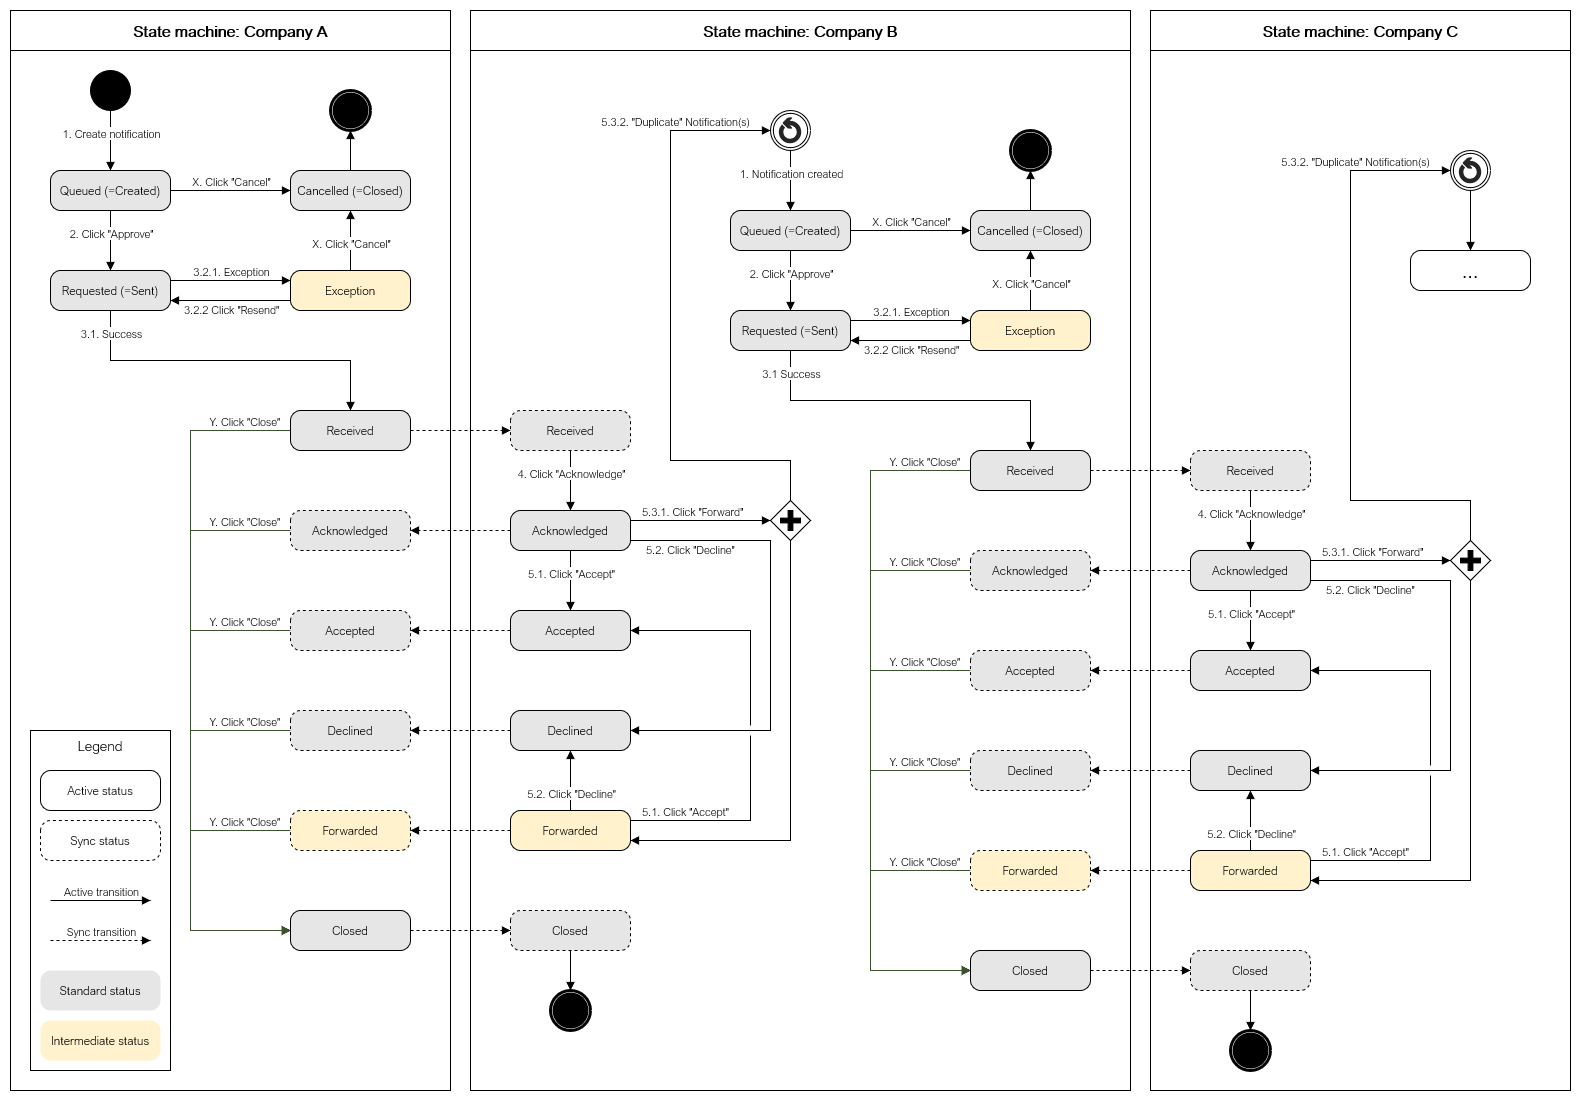
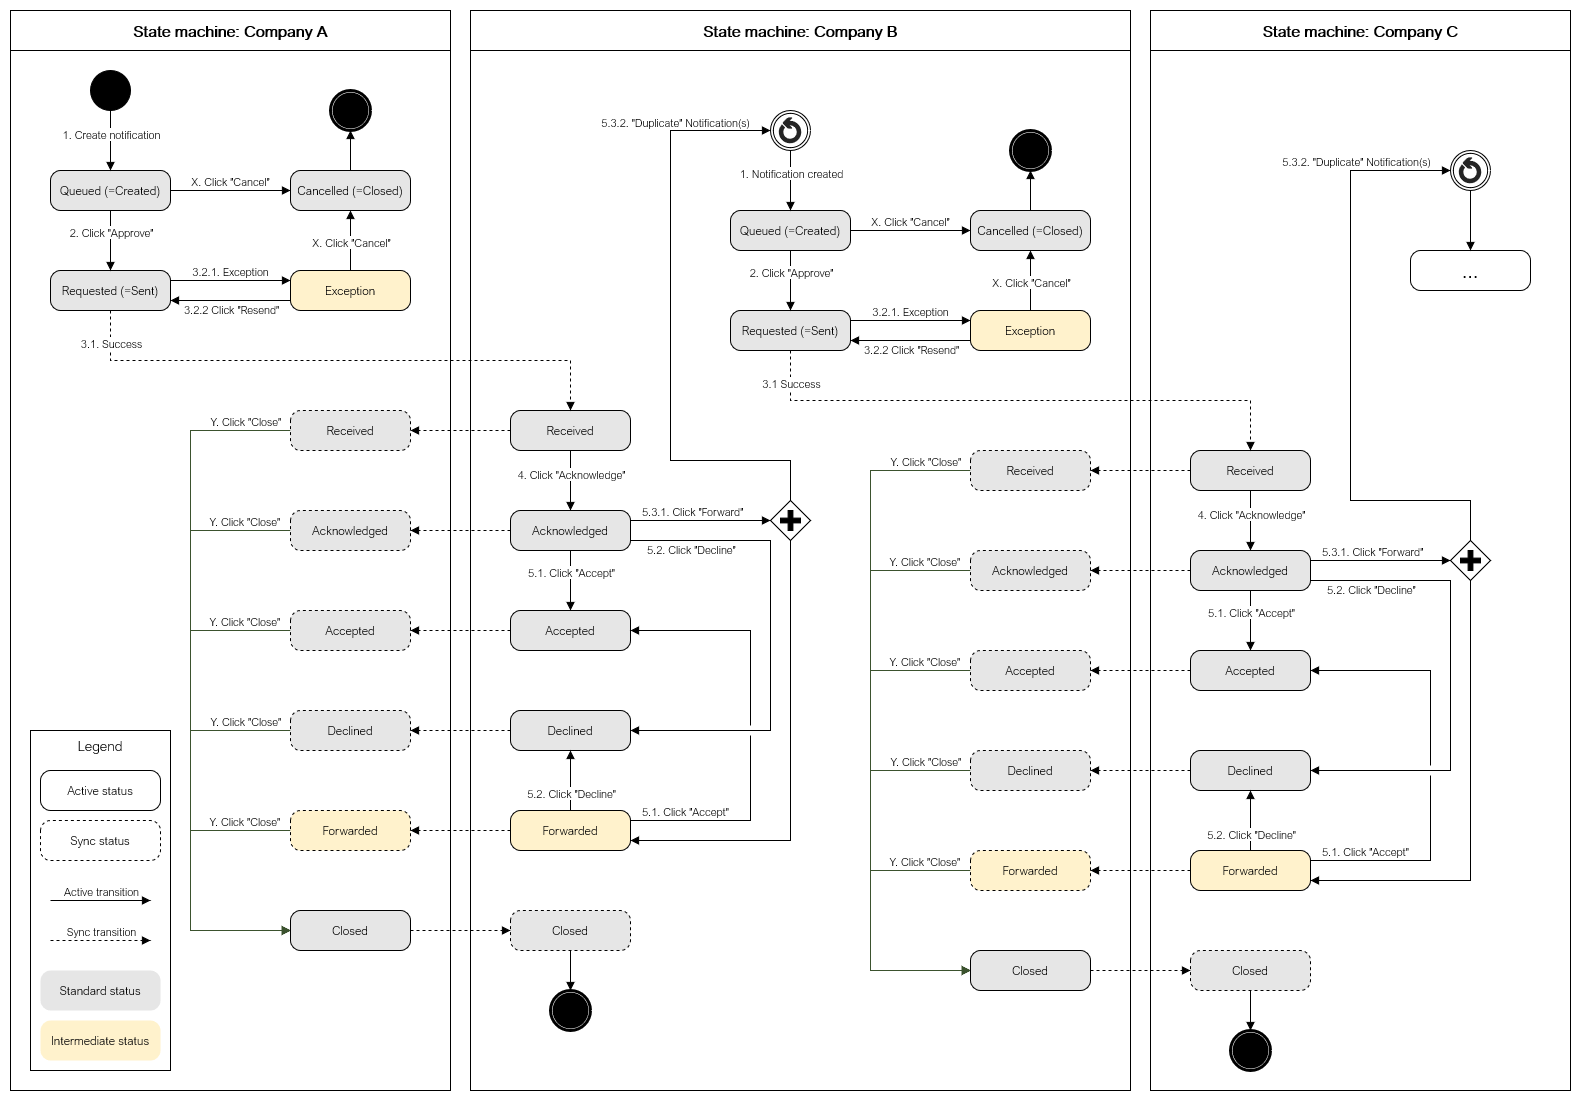
chore(concept): #436 update concept

diff --git a/docs/concept/#436-intermediate-status-handling/#436-intermediate-status-handling.md b/docs/concept/#436-intermediate-status-handling/#436-intermediate-status-handling.md
@@ -10,9 +10,10 @@
 # Table of Contents
 1. [Overview](#overview)
 2. [Requirements](#requirements)
-3. [Concept](#concept)
-4. [Glossary](#glossary)
-5. [References](#references)
+3. [Out of scope](#out-of-scope)
+4. [Concept](#concept)
+5. [Glossary](#glossary)
+6. [References](#references)
 
 # Overview
 The standard notification status flow must be used by all applications in the Catena-X network.
@@ -23,28 +24,39 @@ The frontend must be able to display more nuanced status information, while the 
 - [ ] Intermediate statuses for notifications can be stored in Trace-X without affecting the standard notification flow.
 - [ ] Intermediate statuses for notifications can be shown in Trace-X.
 - [ ] Status flow is implemented. The transitions between statuses work.
+- [ ] User manual is updated.
+
+# Out of scope
+"Forwarded" status is not yet confirmed. Concept will be adjusted depending on the decisions in https://github.com/eclipse-tractusx/sig-release/issues/385
 
 # Concept
 State machine:
 
-| Step  | Description                                                                                                                                                                                                                                                                                                                                                                                                            | Resulting status shown to the user | Resulting internal status | Transition                                                                                                               |
-|-------|------------------------------------------------------------------------------------------------------------------------------------------------------------------------------------------------------------------------------------------------------------------------------------------------------------------------------------------------------------------------------------------------------------------------|------------------------------------|---------------------------|--------------------------------------------------------------------------------------------------------------------------|
-| 1     | Notification is created. This can be done by the User manually or by forwarding an existing notification.                                                                                                                                                                                                                                                                                                              | Queued                             | Created                   | **Manually:** Sender created a new notification <br/>**or**<br/>**Automatically:** Notification is automatically created |
-| 2     | Notification is approved.                                                                                                                                                                                                                                                                                                                                                                                              | Requested                          | Sent                      | **Manually:** Sender approves notification                                                                               |
-| X     | Sending of notification is cancelled. The notification is **not** synchronized with the receiver. Can be done by the sender at any time before the notification was successfully synchronized with the receiver.                                                                                                                                                                                                       | Cancelled                          | Closed                    | **Manually:** Sender cancels the notification before it is successfully synchronized with the receiver                   |
-| 3.1   | Notification successfully sent. The notification is synchronized with the receiver.                                                                                                                                                                                                                                                                                                                                    | Received                           | Received                  | **Automatically:** After the notification is sent and Trace-X received a 201 success response                            |
-| 3.2.1 | There was an exception during the send process. The notification is **not** synchronized with the receiver.                                                                                                                                                                                                                                                                                                            | Exception                          | Received                  | **Automatically:** After the notification is sent and there was any exception                                            |
-| 3.2.2 | Notification is resent.                                                                                                                                                                                                                                                                                                                                                                                                | Requested                          | Sent                      | **Manually:** Sender resends notification                                                                                |
-| 4     | Notification is acknowledged. Status update will be sent to the sender.                                                                                                                                                                                                                                                                                                                                                | Acknowledged                       | Acknowledged              | **Manually:** Receiver acknowledges notification                                                                         |
-| 5.1   | Notification is accepted. Status update will be sent to the sender.                                                                                                                                                                                                                                                                                                                                                    | Accepted                           | Accepted                  | **Manually:** Receiver accepts notification                                                                              |
-| 5.2   | Notification is declined. Status update will be sent to the sender.                                                                                                                                                                                                                                                                                                                                                    | Declined                           | Declined                  | **Manually:** Receiver declines notification                                                                             |
-| 5.3.1 | Notification is forwarded. Status update will be sent to the sender. From this status the notification can be accepted or declined at any time.                                                                                                                                                                                                                                                                        | Forwarded                          | Acknowledged              | **Manually:** Receiver forwards notification                                                                             |
-| 5.3.2 | The notification is duplicated. The duplicate is forwarded to a new receiver. The forwarded notification will use the same state machine. The receiver becomes sender for the forwarded notification and there is a new receiver. One notification can be forwarded to multiple receivers. It can be forwarded further by any receiver. The forwarded notification(s) is/are independent of the original notification. | Forwarded                          | Acknowledged              | **Automatically:** After the notification was duplicated                                                                 |
-| Y     | Notification is closed. Status update will be sent to the receiver. The sender can close the notification at any time after the notification was synchronized with the receiver.                                                                                                                                                                                                                                       | Closed                             | Closed                    | **Manually:** Sender closes notification                                                                                 |
-
-
 ![Intermediate-status-handling.png](Intermediate-status-handling.png)
 
+| Step  | Description                                                                                                                                                                                                                                                                                                                                                                                                            | Resulting status shown to the user | Resulting internal status | Transition                                                                                                                     |
+|-------|------------------------------------------------------------------------------------------------------------------------------------------------------------------------------------------------------------------------------------------------------------------------------------------------------------------------------------------------------------------------------------------------------------------------|------------------------------------|---------------------------|--------------------------------------------------------------------------------------------------------------------------------|
+| 1     | Notification is created. This can be done by the User directly or by forwarding/duplicating an existing notification.                                                                                                                                                                                                                                                                                                  | Queued                             | Created                   | **Manually:** Sender created a new notification <br/><br/>or<br/><br/>**Automatically:** Notification is automatically created |
+| 2     | Notification is approved.                                                                                                                                                                                                                                                                                                                                                                                              | Requested                          | Sent                      | **Manually:** Sender approves notification                                                                                     |
+| X     | Sending of notification is cancelled. The notification is **not** synchronized with the receiver. Can be done by the sender at any time before the notification was successfully synchronized with the receiver.                                                                                                                                                                                                       | Cancelled                          | Closed                    | **Manually:** Sender cancels the notification before it is successfully synchronized with the receiver                         |
+| 3.1   | Notification successfully sent. The notification is synchronized with the receiver.                                                                                                                                                                                                                                                                                                                                    | Received                           | Received                  | **Automatically:** After the notification is sent and Trace-X received a 201 success response                                  |
+| 3.2.1 | There was an exception during the send process. The notification is **not** synchronized with the receiver.                                                                                                                                                                                                                                                                                                            | Exception                          | Received                  | **Automatically:** After the notification is sent and there was any exception                                                  |
+| 3.2.2 | Notification is resent.                                                                                                                                                                                                                                                                                                                                                                                                | Requested                          | Sent                      | **Manually:** Sender resends notification                                                                                      |
+| 4     | Notification is acknowledged. Status update will be sent to the sender.                                                                                                                                                                                                                                                                                                                                                | Acknowledged                       | Acknowledged              | **Manually:** Receiver acknowledges notification                                                                               |
+| 5.1   | Notification is accepted. Status update will be sent to the sender.                                                                                                                                                                                                                                                                                                                                                    | Accepted                           | Accepted                  | **Manually:** Receiver accepts notification                                                                                    |
+| 5.2   | Notification is declined. Status update will be sent to the sender.                                                                                                                                                                                                                                                                                                                                                    | Declined                           | Declined                  | **Manually:** Receiver declines notification                                                                                   |
+| 5.3.1 | Notification is forwarded. Status update will be sent to the sender. From this status the notification can be accepted or declined at any time.                                                                                                                                                                                                                                                                        | Forwarded                          | Acknowledged              | **Manually:** Receiver forwards notification                                                                                   |
+| 5.3.2 | The notification is duplicated. The duplicate is forwarded to a new receiver. The forwarded notification will use the same state machine. The receiver becomes sender for the forwarded notification and there is a new receiver. One notification can be forwarded to multiple receivers. It can be forwarded further by any receiver. The forwarded notification(s) is/are independent of the original notification. | Forwarded                          | Acknowledged              | **Automatically:** After the notification was duplicated                                                                       |
+| Y     | Notification is closed. Status update will be sent to the receiver. The sender can close the notification at any time after the notification was synchronized with the receiver.                                                                                                                                                                                                                                       | Closed                             | Closed                    | **Manually:** Sender closes notification                                                                                       |
+
+The states must always be synchronized between sender and receiver. The transitions between synchronized states can skip one or multiple states.
+This means the order of synchronized states must **not** be enforced. The message history must display enough information for both sender and receiver to understand why the status changes took place. (-> https://github.com/eclipse-tractusx/traceability-foss/issues/423)
+
+Example A: The receiver acknowledges a notification. The status is synchronized. The notification has the state "Acknowledged" on both sides.
+Now the sender closes the notification and synchronizes the state again. For the receiver the notification never had a state "Accepted"/"Declined"/"Forwarded".
+
+Example B: The synchronization of the acknowledgement (step 4) failed. In this case the state of the notification at the sender's side will remain as "Received", while the notification is saved as "Acknowledged" in the receiver's system.
+Now the receiver accepts the notification and the status switches to "Accepted". If the synchronization is then successful, the sender will receive the message that the state has changed to "Accepted". For the sender the notification was never in the state "Acknowledged" but instead skipped to the state "Accepted" directly.
 
 # Glossary
 
@@ -54,3 +66,4 @@ State machine:
 |              |      |             |
 
 # References
+Notification messages: https://github.com/eclipse-tractusx/traceability-foss/issues/423
